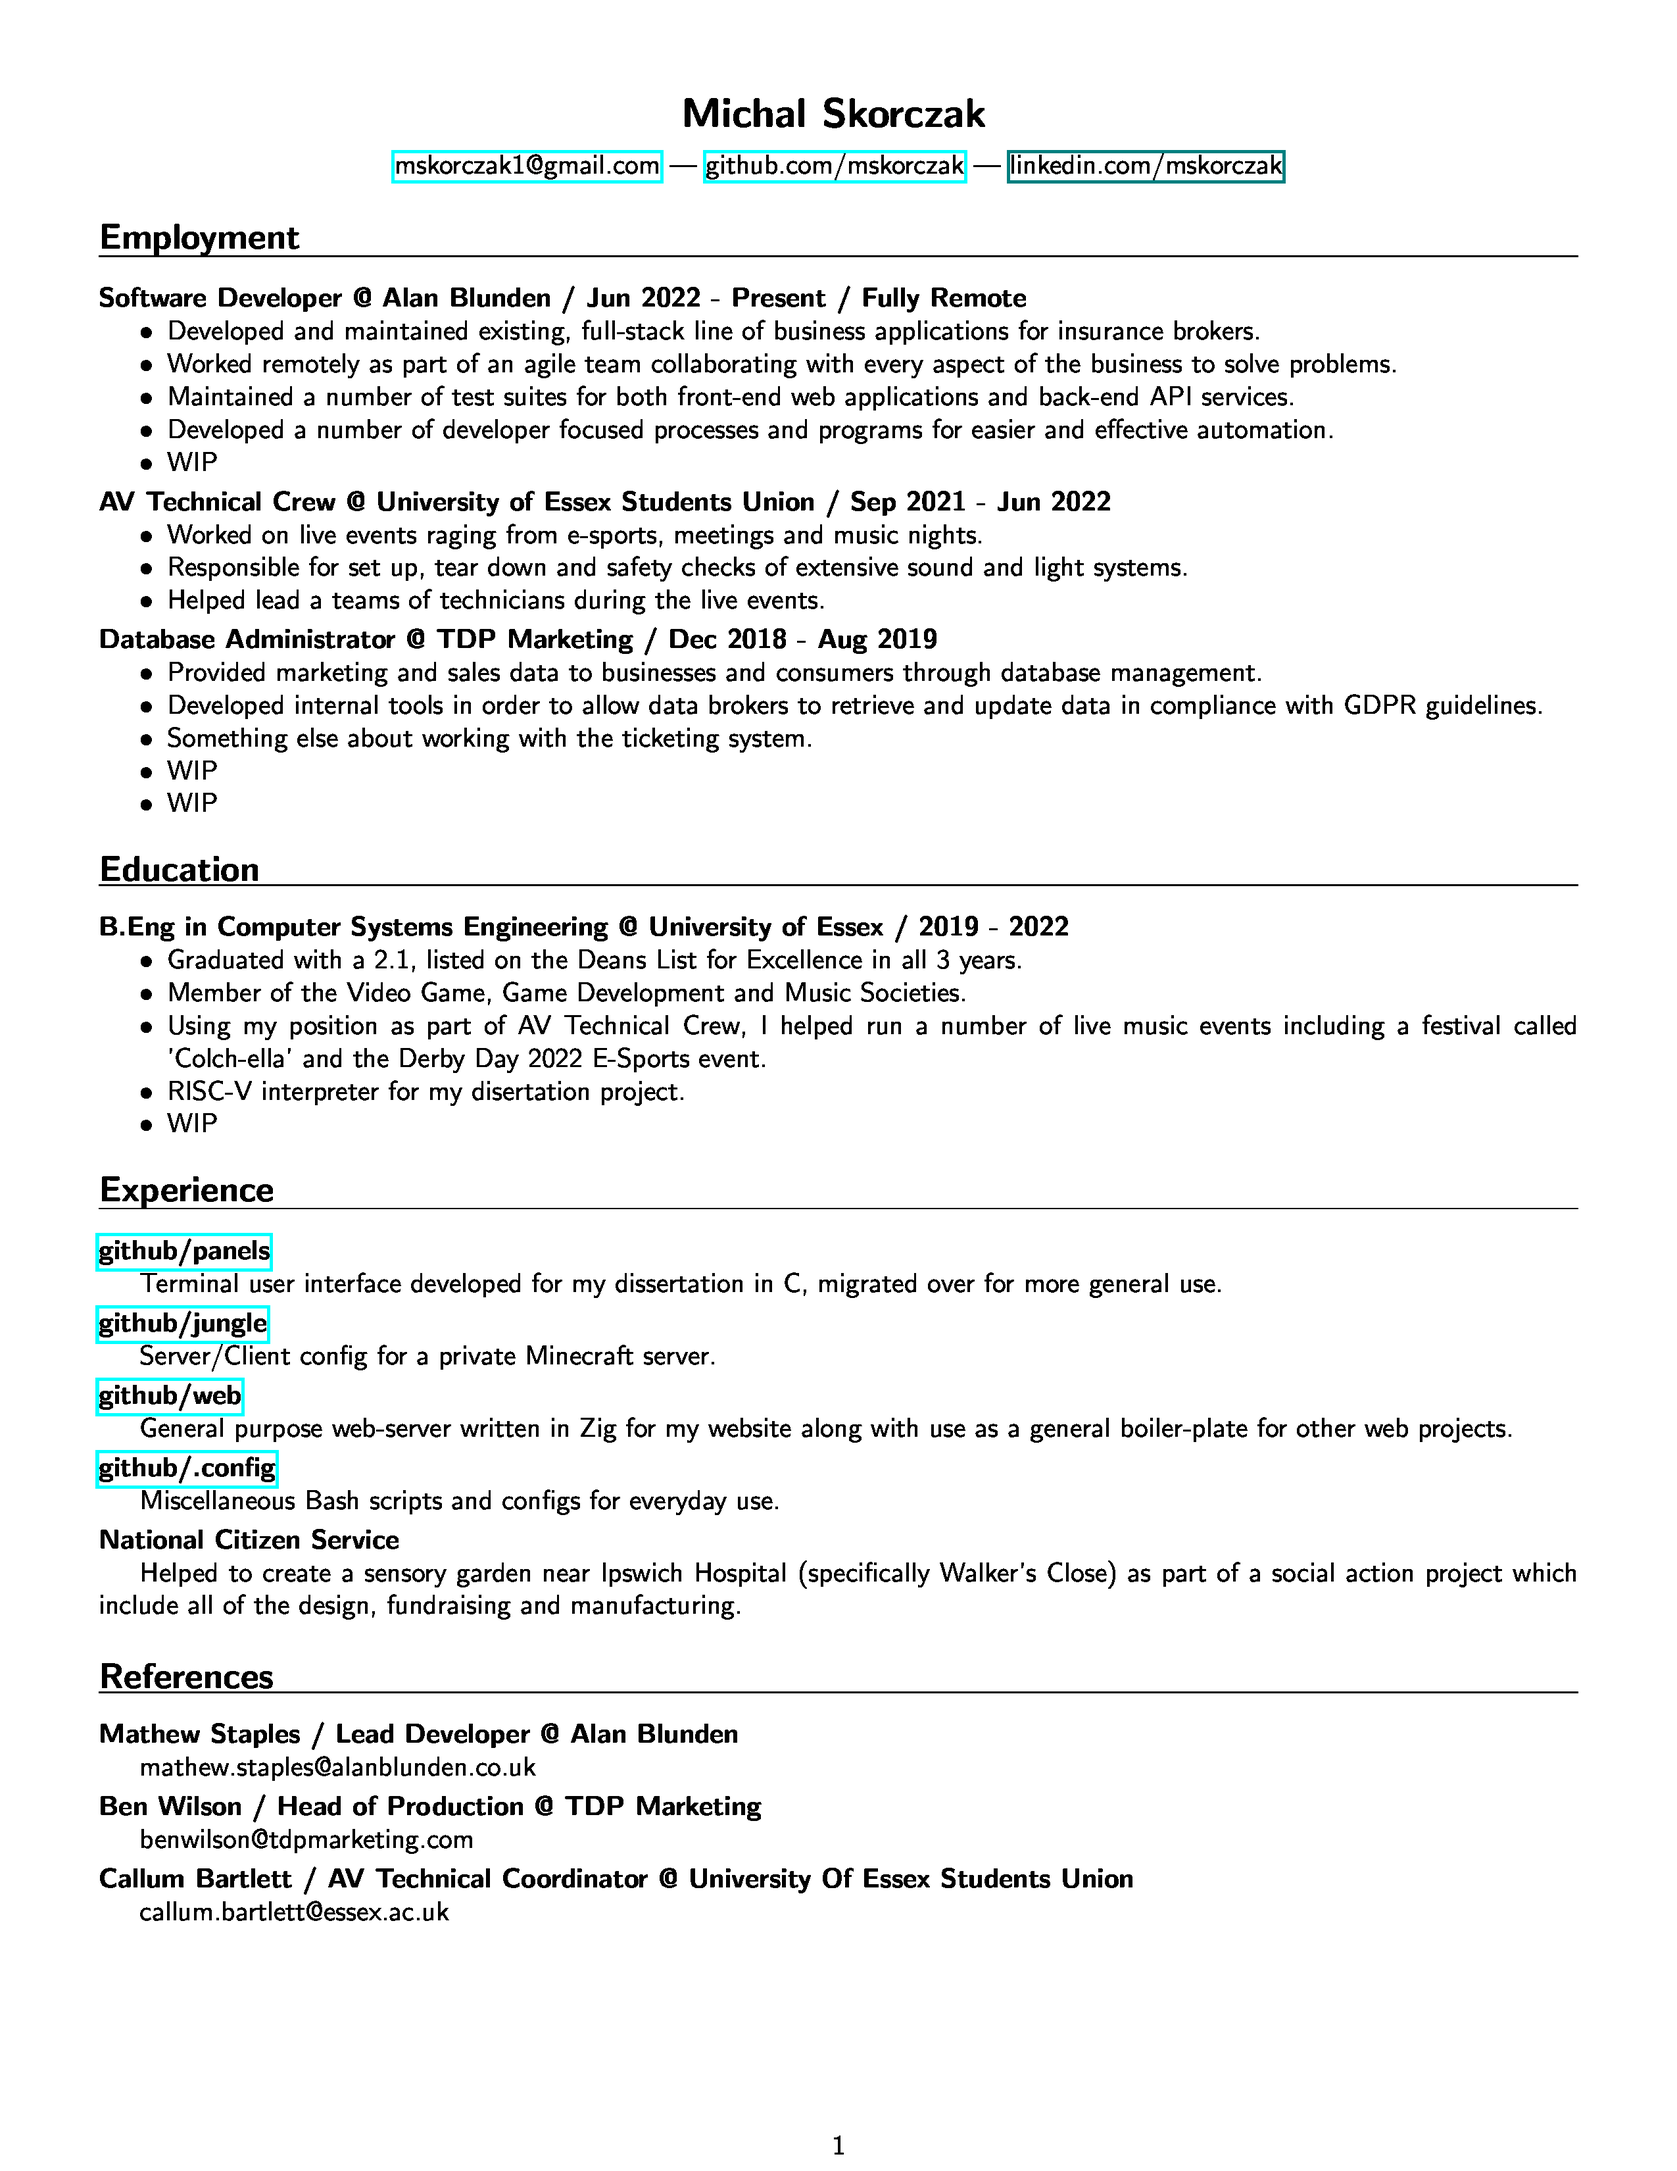
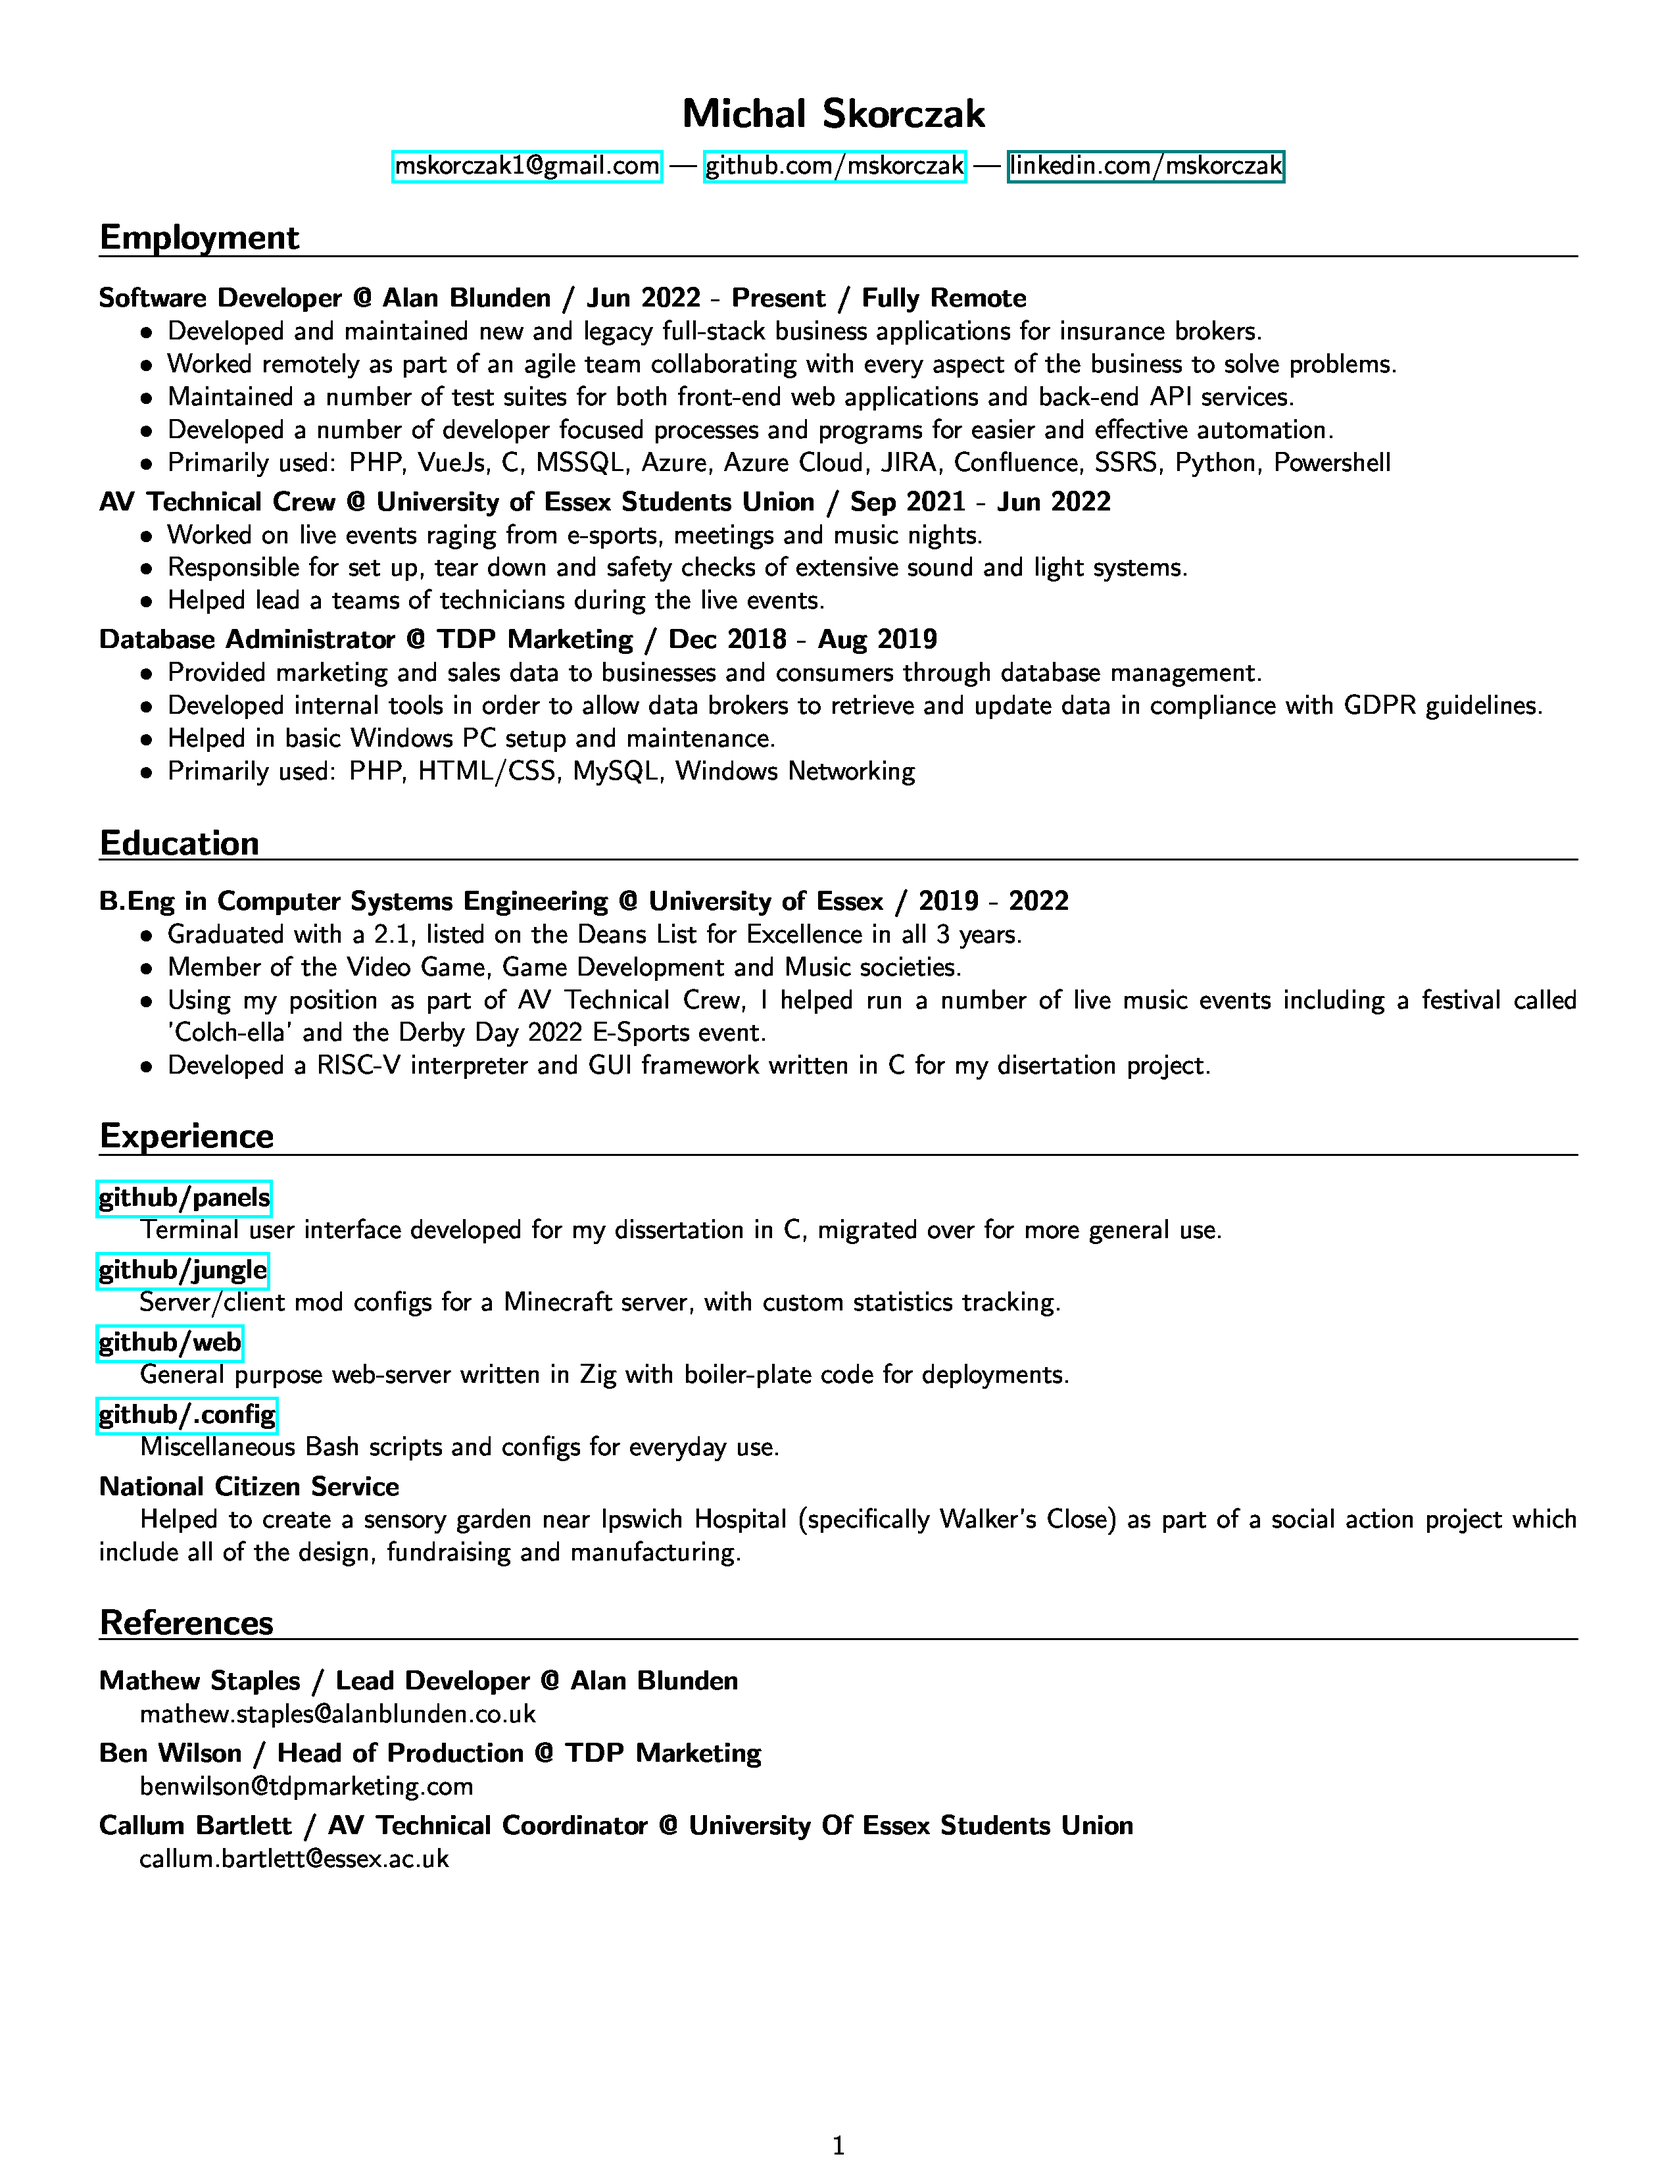
Updated: wording + README

diff --git a/resume.tex b/resume.tex
@@ -60,11 +60,11 @@
 
 \subsection{Software Developer @ Alan Blunden / Jun 2022 - Present / Fully Remote}
 \begin{compactitem}
-\item Developed and maintained existing, full-stack line of business applications for insurance brokers.
+\item Developed and maintained new and legacy full-stack business applications for insurance brokers.
 \item Worked remotely as part of an agile team collaborating with every aspect of the business to solve problems.
 \item Maintained a number of test suites for both front-end web applications and back-end API services.
 \item Developed a number of developer focused processes and programs for easier and effective automation.
-\item WIP
+\item Primarily used: PHP, VueJs, C#, MSSQL, Azure, Azure Cloud, JIRA, Confluence, SSRS, Python, Powershell
 \end{compactitem}
 
 \subsection{AV Technical Crew @ University of Essex Students Union / Sep 2021 - Jun 2022}
@@ -78,9 +78,8 @@
 \begin{compactitem}
 \item Provided marketing and sales data to businesses and consumers through database management.
 \item Developed internal tools in order to allow data brokers to retrieve and update data in compliance with GDPR guidelines.
-\item Something else about working with the ticketing system.
-\item WIP
-\item WIP
+\item Helped in basic Windows PC setup and maintenance.
+\item Primarily used: PHP, HTML/CSS, MySQL, Windows Networking 
 \end{compactitem}
 
 \section{Education}
@@ -88,17 +87,16 @@
 \subsection{B.Eng in Computer Systems Engineering @ University of Essex / 2019 - 2022}
 \begin{compactitem}
 \item Graduated with a 2.1, listed on the Deans List for Excellence in all 3 years.
-\item Member of the Video Game, Game Development and Music Societies.
+\item Member of the Video Game, Game Development and Music societies.
 \item Using my position as part of AV Technical Crew, I helped run a number of live music events including a festival called 'Colch-ella' and the Derby Day 2022 E-Sports event.
-\item RISC-V interpreter for my disertation project.
-\item WIP
+\item Developed a RISC-V interpreter and GUI framework written in C for my disertation project.
 \end{compactitem}
 
 \section{Experience}
 
 \subsection{\href{\github/panels}{github/panels}} Terminal user interface developed for my dissertation in C, migrated over for more general use.
-\subsection{\href{\github/jungle}{github/jungle}} Server/Client config for a private Minecraft server.
-\subsection{\href{\github/web}{github/web}} General purpose web-server written in Zig for my website along with use as a general boiler-plate for other web projects.
+\subsection{\href{\github/jungle}{github/jungle}} Server/client mod configs for a Minecraft server, with custom statistics tracking.
+\subsection{\href{\github/web}{github/web}} General purpose web-server written in Zig with boiler-plate code for deployments.
 \subsection{\href{\github/.config}{github/.config}} Miscellaneous Bash scripts and configs for everyday use.  
 \subsection{National Citizen Service} Helped to create a sensory garden near Ipswich Hospital (specifically Walker's Close) as part of a social action project which include all of the design, fundraising and manufacturing.
 

diff --git a/README.md b/README.md
@@ -1,3 +1,5 @@
 # Resume
 
-Resume written using a modified [AltaCV](https://github.com/liantze/AltaCV) template.
+Run `build.sh` to install.
+
+I think it needs imagemagik but it definitely needs pdflatex. 
